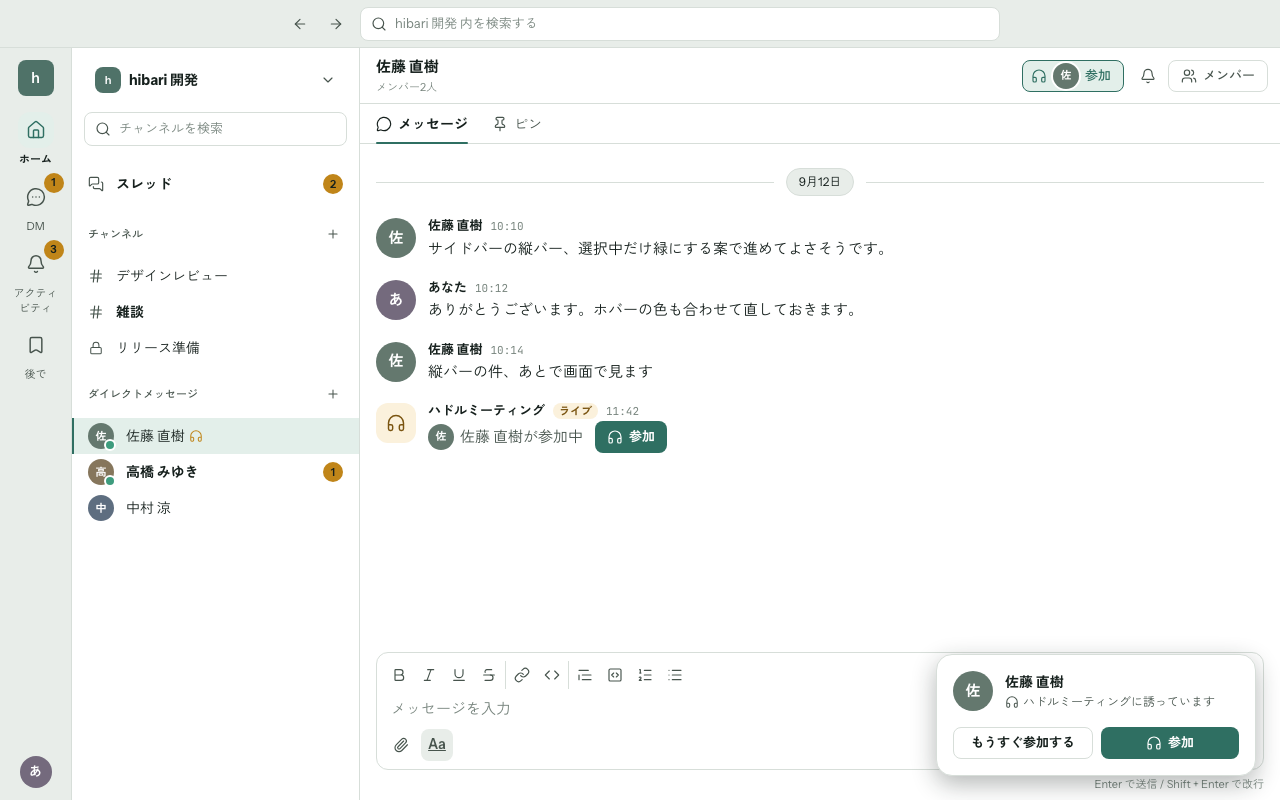
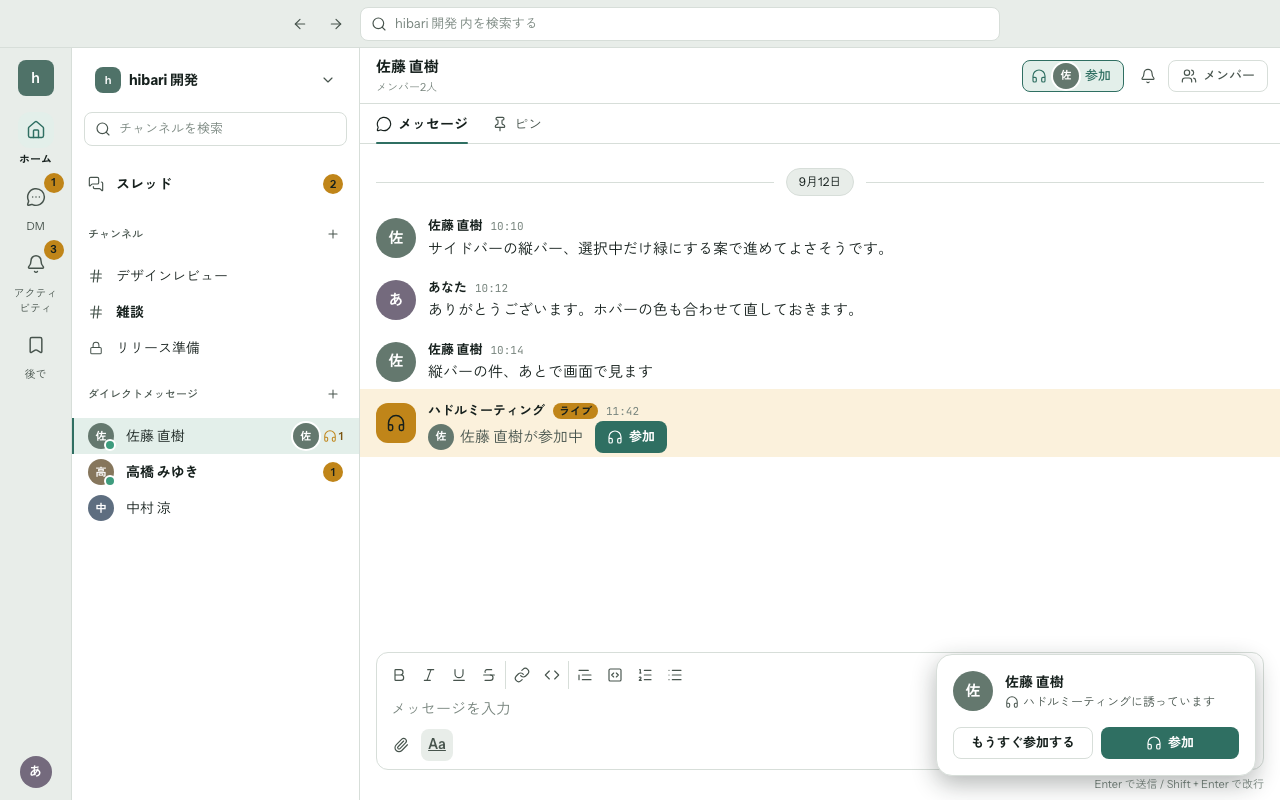
feat(web): 進行中のハドルのメッセージの行に琥珀の地を付ける
Slack と同じく、進行中のハドルのメッセージは行ごと地の色を付ける（オーナーの指摘）。
アイコンと「ライブ」の印も琥珀の塗りにした。

Changed region(s): [[0.2812, 0.4688, 1.0, 0.5938], [0.2188, 0.5312, 0.25, 0.5625]]

diff --git a/web/components/chat/huddle-message.tsx b/web/components/chat/huddle-message.tsx
@@ -30,13 +30,17 @@ export function HuddleMessage({
   return (
     <article
       aria-label={`${title(huddle)} ${huddle.timeLabel}`}
-      className={cx("flex gap-2.5 px-3 pt-3 pb-1 md:gap-3 md:px-4", threadOpen && "bg-primary-subtle")}
+      className={cx(
+        "flex gap-2.5 px-3 pt-3 pb-1 md:gap-3 md:px-4",
+        // 開いているスレッドの緑を優先し、進行中は行ごと琥珀の地にする（Slack も進行中の行に地の色を付ける）
+        threadOpen ? "bg-primary-subtle" : live && "bg-attention-subtle",
+      )}
     >
       <span
         className={cx(
           "mt-0.5 flex size-8 shrink-0 items-center justify-center rounded-md md:size-10",
           // 進行中は「いま起きていること」の琥珀（Slack は緑だが、hibari の緑は押せるものの色）
-          live ? "bg-attention-subtle text-attention-text" : "bg-surface-muted text-text-secondary",
+          live ? "bg-attention text-on-attention" : "bg-surface-muted text-text-secondary",
         )}
       >
         {missed ? <PhoneMissedIcon className="size-4 md:size-5" /> : <HeadphonesIcon className="size-4 md:size-5" />}
@@ -45,7 +49,7 @@ export function HuddleMessage({
         <header className="flex flex-wrap items-center gap-x-2">
           <span className="text-sm font-semibold text-text">{title(huddle)}</span>
           {live && (
-            <span className="rounded-sm bg-attention-subtle px-1.5 text-2xs font-semibold text-attention-text">ライブ</span>
+            <span className="rounded-sm bg-attention px-1.5 text-2xs font-semibold text-on-attention">ライブ</span>
           )}
           <time className="font-mono text-2xs text-text-muted">{huddle.timeLabel}</time>
         </header>
@@ -55,7 +59,15 @@ export function HuddleMessage({
             {live && huddle.participants.length > 0 && (
               <span aria-hidden className="flex shrink-0 -space-x-1">
                 {huddle.participants.slice(0, 5).map((p) => (
-                  <Avatar key={p.id} id={p.id} name={p.name} imageUrl={p.avatarUrl} size="xs" className="rounded-full ring-2 ring-surface" />
+                  <Avatar
+                    key={p.id}
+                    id={p.id}
+                    name={p.name}
+                    imageUrl={p.avatarUrl}
+                    size="xs"
+                    // 重ねた顔の縁は、行の地の色に合わせる
+                    className={cx("rounded-full ring-2", threadOpen ? "ring-primary-subtle" : "ring-attention-subtle")}
+                  />
                 ))}
               </span>
             )}

diff --git a/docs/ui/README.md b/docs/ui/README.md
@@ -1075,7 +1075,7 @@ ADR 0066 とその追記（A〜D）のとおり足した。新しいトークン
 - **サイドバーの印**は行の右端に、入っている人の顔（2 人まで）と琥珀のヘッドフォンと人数（Slack と同じ）。「いま起きていること」なので琥珀にし、押せるようにはしない。
 - **ハドルの帯**は、ハドルのタブを閉じている間、チャットのタブの下の端に全幅で出す（Slack と同じ）。左にルーム名と参加の様子、中央にハドルの画面と同じ操作の列、右に「新しいウィンドウで開く」と「退出する」。
   タブを閉じても抜けない（ADR 0066 追記 C の改め）。モバイルは 2 段にする。
-- **会話のメッセージ**は Slack と同じく、アバターの代わりにヘッドフォンのアイコンを置いた行。進行中はアイコンの地と「ライブ」を琥珀にし（Slack は緑）、入っている人の顔と名前、「参加」。
+- **会話のメッセージ**は Slack と同じく、アバターの代わりにヘッドフォンのアイコンを置いた行。進行中は行の地・アイコン・「ライブ」を琥珀にし（Slack は緑）、入っている人の顔と名前、「参加」。
   終わったら「ハドルミーティングは終了しました」と「12 分 · あなた、佐藤 直樹、ほか 3 人が参加しました」。下にハドルのチャットの「N 件の返信」。Slack の添え書き（「この静けさをお楽しみください」など）は写さない。
   DM で入らなかった人には「不在着信」、始めた人には「応答なし」。
 - **参加前のプレビュー**は Slack と同じ並び: 見出し（「#ルーム でハドルミーティングを開始する」）、自分のタイルとマイクのオンとオフ、マイクとスピーカーの選択、下に「キャンセル」と開始。
@@ -1086,7 +1086,7 @@ ADR 0066 とその追記（A〜D）のとおり足した。新しいトークン
 
 #### デザインで決めた点（オーナーに確認する）
 
-- 「ライブ」とアイコンの地は琥珀にした（Slack は緑。hibari の緑は押せるものの色）。Slack の進行中の行は地の色も変わるが、メンションの行の地（琥珀）と紛れるので、行の地は変えていない。
+- 「ライブ」とアイコンの地は琥珀にした（Slack は緑。hibari の緑は押せるものの色）。進行中の行は、Slack と同じく行ごと地の色を付ける（琥珀の地。オーナーの指摘で付けた）。
 - 進行中のメッセージの見出しは「ハドルミーティング」だけにした。Slack は自分が入っていると「ハドルミーティングに参加しました」になるが、入っていない人から見た文言は確かめていない。
 - 呼び出しの置き場所（md 以上は右下、モバイルは上）。Slack の実物の置き場所は確かめていない。
 - ハドルの画面の背景は、トークンの背景色（`--color-background`）のまま。Slack のようなテーマの絵は入れていない。

diff --git a/docs/adr/0066-huddles.md b/docs/adr/0066-huddles.md
@@ -330,6 +330,7 @@ DELETE /api/v1/huddles/{huddleID}/participants/{participantID}                  
   - どちらも、下にスレッドの「N 件の返信」（追記 A）。
 - Slack の文言（「この静けさをお楽しみください」「いい思索の時間でした」など）は写さない。事実だけを書く。
 - 「ライブ」の印は、いま起きていることなので琥珀にする（Slack は緑。CLAUDE.md のトークンの決まりで、緑は押せるもの）。
+- 進行中の行は、Slack と同じく行ごと地の色を付ける（琥珀の地。オーナーの指摘、2026-09-26）。
 
 ## 理由
 
